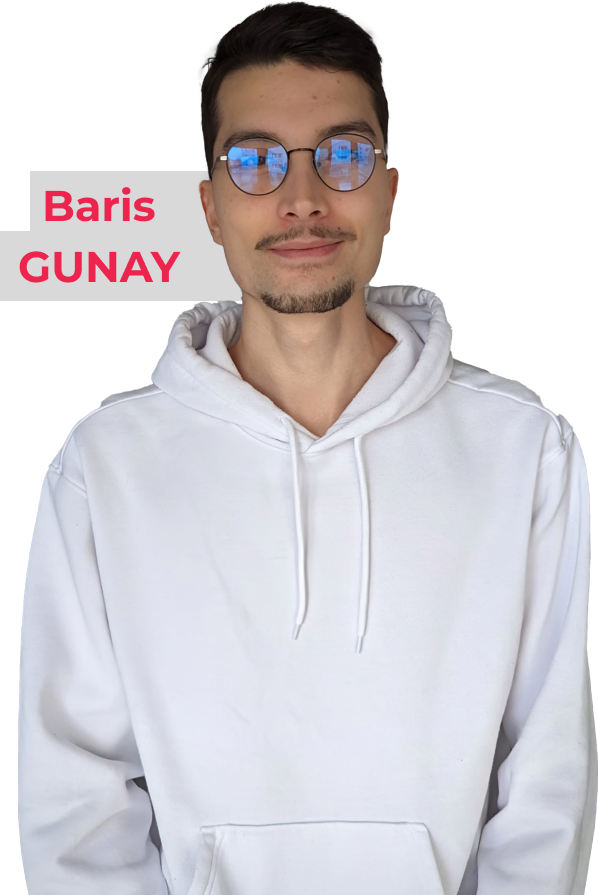
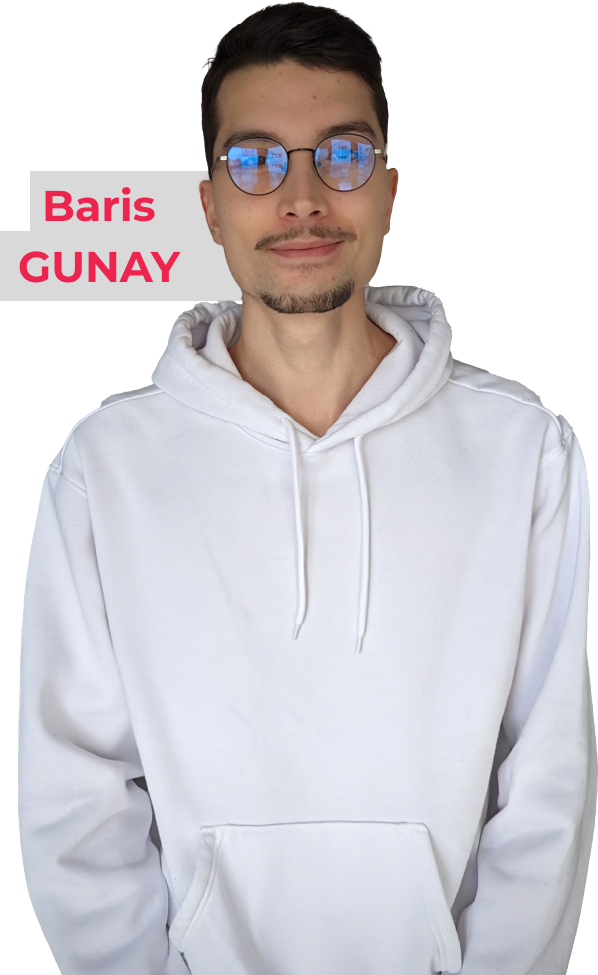
media querry faites

diff --git a/src/components/Navbar.jsx b/src/components/Navbar.jsx
@@ -5,9 +5,12 @@ import github from "../assets/svg/github.svg";
 import linkedin from "../assets/svg/linkedin.svg";
 import dl from "../assets/svg/dl-icon.svg";
 import CV from "../assets/CV.pdf";
+import menu from "../assets/svg/menuburger.svg";
+import cross from "../assets/svg/cross.svg";
 
 function Navbar() {
   const [scrolled, setScrolled] = useState(false);
+  const [menuOpen, setMenuOpen] = useState(false);
   useEffect(() => {
     const handleScroll = () => {
       const isScrolled = window.scrollY > 0;
@@ -25,11 +28,11 @@ function Navbar() {
   return (
     <div
       className={`fixed w-full z-20 flex justify-center transition duration-700 ${
-        scrolled && "bg-white"
+        scrolled && "bg-white shadow"
       }`}
     >
       <div className="w-[1440px]">
-        <nav className="flex py-4 justify-between">
+        <nav className="flex py-4 justify-between max-[1440px]:px-4 max-[1440px]:py-2">
           <Link
             to="hero"
             spy={true}
@@ -44,8 +47,8 @@ function Navbar() {
               </span>
             </p>
           </Link>
-          <div className="flex items-center">
-            <ul className="flex font-bold gap-12">
+          <div className="flex max-sm:flex-row-reverse items-center max-[900px]:text-xs">
+            <ul className="flex font-bold gap-12 max-[900px]:gap-8 max-sm:hidden">
               <li>
                 <Link
                   to="hero"
@@ -96,18 +99,24 @@ function Navbar() {
               </li>
               <li className="group">
                 <a href={CV} download>
-                  <div className="flex relative overflow-hidden cursor-pointer">
-                    Mon CV
+                  <div className="flex relative cursor-pointer">
+                    CV
                     <span className="underline-nav"></span>
                     <img
                       src={dl}
                       alt="Download CV"
-                      className="group-hover:animate-bounce transition"
+                      className="group-hover:animate-bounce transition w-6 max-[900px]:w-4"
                     />
                   </div>
                 </a>
               </li>
             </ul>
+            <img
+              src={menuOpen ? cross : menu}
+              alt="menuburger icon"
+              className="w-10 sm:hidden transition"
+              onClick={() => setMenuOpen(!menuOpen)}
+            />
             <div className="w-[1px] h-[40px] bg-black mx-6" />
             <div className="flex gap-2">
               <a
@@ -116,7 +125,7 @@ function Navbar() {
                 rel="noopener noreferrer"
               >
                 <img
-                  className="w-8 hover:scale-125 transition"
+                  className="w-8 hover:scale-125 transition max-[900px]:w-6"
                   src={github}
                   alt="github icon"
                 />
@@ -127,7 +136,7 @@ function Navbar() {
                 rel="noopener noreferrer"
               >
                 <img
-                  className="w-8 hover:scale-125 transition"
+                  className="w-8 hover:scale-125 transition max-[900px]:w-6"
                   src={linkedin}
                   alt="linkedin icon"
                 />
@@ -138,7 +147,7 @@ function Navbar() {
                 rel="noopener noreferrer"
               >
                 <img
-                  className="w-8 hover:scale-125 transition"
+                  className="w-8 hover:scale-125 transition max-[900px]:w-6"
                   src={frontendmentor}
                   alt="frontendmentor icon"
                 />

diff --git a/src/components/Hero.jsx b/src/components/Hero.jsx
@@ -1,16 +1,34 @@
 import { Link } from "react-scroll";
-import photo from "../assets/test.png";
+import { useState, useEffect } from "react";
+import photo from "../assets/Photo.png";
+import photom from "../assets/PhotoM.png";
 import reactlogo from "../assets/svg/react.svg";
 import arrow from "../assets/svg/arrowdown.svg";
 
 function Hero() {
+  const [isLargeScreen, setIsLargeScreen] = useState(window.innerWidth > 1440);
+
+  useEffect(() => {
+    const handleResize = () => {
+      setIsLargeScreen(window.innerWidth > 900);
+    };
+
+    window.addEventListener("resize", handleResize);
+    return () => {
+      window.removeEventListener("resize", handleResize);
+    };
+  }, []);
   return (
-    <div className="flex justify-center">
-      <div className="flex w-[95%]">
-        <img src={photo} alt="photo de Baris GUNAY" className="h-10/12" />
-        <div className="flex flex-col justify-center pl-10 pb-80">
-          <div className="flex">
-            <p className="font-bold text-5xl">
+    <div className="flex justify-center pt-16">
+      <div className="flex w-[95%] max-[900px]:flex-col items-center">
+        <img
+          src={isLargeScreen ? photo : photom}
+          alt="photo de Baris GUNAY"
+          className="h-10/12 max-[1440px]:w-[400px] object-cover"
+        />
+        <div className="flex flex-col justify-center px-10 pb-80">
+          <div className="flex items-center py-4 max-[900px]:justify-center">
+            <p className="font-bold text-5xl max-[1440px]:text-3xl max-sm:text-xl">
               Developpeur <span className="text-secondary">Full Stack</span>
             </p>
             <img
@@ -19,7 +37,7 @@ function Hero() {
               className="animate-spin-slow hover:animate-spin"
             />
           </div>
-          <p className="text-xl">
+          <p className="text-xl max-sm:text-lg max-[900px]:items-center">
             À l'issue de ma formation en "
             <span className="text-secondary font-semibold">
               Développement web et web mobile

diff --git a/src/components/Skill.jsx b/src/components/Skill.jsx
@@ -1,7 +1,7 @@
 function Skill() {
   return (
     <>
-      <h2 className="text-5xl font-extrabold pt-28">
+      <h2 className="text-5xl font-extrabold pt-28 max-[500px]:text-3xl max-[500px]:text-center max-[500px]:pt-12">
         Mes <span className="text-secondary">compétences</span>
       </h2>
     </>

diff --git a/src/index.scss b/src/index.scss
@@ -17,7 +17,10 @@ body {
 }
 
 .page {
-  height: 100vh;
+  min-height: 100vh;
+  @media (max-width: 640px) {
+    min-height: 640px;
+  }
 }
 
 li {
